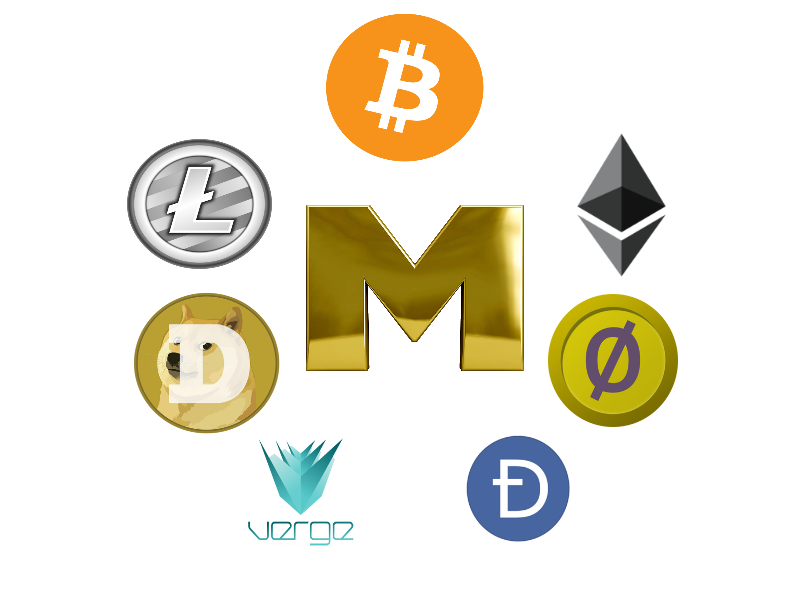
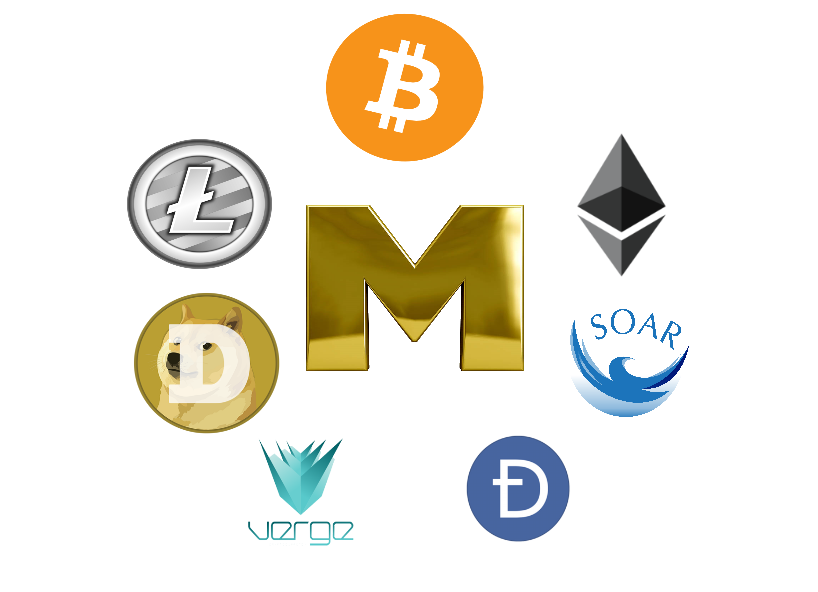
Implemented the coin thread and make the webpage look cool

diff --git a/src/main/resources/static/app/views/homeview.html b/src/main/resources/static/app/views/homeview.html
@@ -23,5 +23,5 @@
 	<label>{{message}}</label>
 	<br><br>
 	<center><img src="app/views/Untitled.png" alt="Multicoin" style="width:850px;height:600px;"></center>
-	<p>MULTICOIN = Bitcoin + Litecoin + Ethereum + Dogecoin + Omni + Verge + Dash</p>
+	<p>MULTICOIN = Bitcoin + Litecoin + Ethereum + Dogecoin + Soar + Verge + Dash</p>
 </div>

diff --git a/src/main/resources/static/app/views/coin.html b/src/main/resources/static/app/views/coin.html
@@ -26,6 +26,10 @@
     button {
         color: darkslategray;
     }
+
+    input, select, textarea{
+        color: #000000;
+    }
 </style>
 <div ng-controller="CoinController">
 

diff --git a/src/main/java/com/webserver/models/User.java b/src/main/java/com/webserver/models/User.java
@@ -10,14 +10,27 @@ import javax.persistence.Table;
 
 @Entity
 @Table(name = "user")
-public class User implements java.io.Serializable {
+public class User {
 
-	private static final long serialVersionUID = 1L;
+	@Id
+	@GeneratedValue(strategy = IDENTITY)
+	@Column(name = "id", unique = true, nullable = false)
 	private Integer id;
+
+	@Column(name = "username", nullable = false)
 	private String username;
+
+	@Column(name = "email", nullable = false, length = 200)
 	private String email;
+
+	@Column(name = "dollars", nullable = false)
+
 	private Double dollars;
+
+	@Column(name = "password", nullable = false)
 	private String password;
+
+	@Column(name = "multicoin_address", nullable = false)
 	private String multicoinAddress;
 
 	public User() {
@@ -32,9 +45,6 @@ public class User implements java.io.Serializable {
 		this.multicoinAddress = multicoinAddress;
 	}
 
-	@Id
-	@GeneratedValue(strategy = IDENTITY)
-	@Column(name = "id", unique = true, nullable = false)
 	public Integer getId() {
 		return this.id;
 	}
@@ -43,7 +53,6 @@ public class User implements java.io.Serializable {
 		this.id = id;
 	}
 
-	@Column(name = "email", nullable = false, length = 200)
 	public String getEmail() {
 		return this.email;
 	}
@@ -52,7 +61,6 @@ public class User implements java.io.Serializable {
 		this.email = email;
 	}
 
-	@Column(name = "dollars", nullable = false)
 	public Double getDollars() {
 		return dollars;
 	}
@@ -61,7 +69,6 @@ public class User implements java.io.Serializable {
 		this.dollars = dollars;
 	}
 
-	@Column(name = "username", nullable = false)
 	public String getUsername() {
 		return username;
 	}
@@ -70,7 +77,6 @@ public class User implements java.io.Serializable {
 		this.username = username;
 	}
 
-	@Column(name = "password", nullable = false)
 	public String getPassword() {
 		return password;
 	}
@@ -79,7 +85,6 @@ public class User implements java.io.Serializable {
 		this.password = password;
 	}
 
-	@Column(name = "multicoin_address", nullable = false)
 	public String getMulticoinAddress() {
 		return multicoinAddress;
 	}

diff --git a/src/main/java/com/webserver/models/Price.java b/src/main/java/com/webserver/models/Price.java
@@ -12,9 +12,18 @@ import static javax.persistence.GenerationType.IDENTITY;
 @Table(name = "price")
 public class Price {
 
+    @Id
+    @GeneratedValue
+    @Column(name = "id")
     private Integer id;
+
+    @Column(name = "date")
     private Date date;
+
+    @Column(name = "buyPrice")
     private Double buyPrice;
+
+    @Column(name = "sellPrice")
     private Double sellPrice;
 
     public Price() {
@@ -27,9 +36,6 @@ public class Price {
         this.sellPrice = sellPrice;
     }
 
-    @Id
-    @GeneratedValue
-    @Column(name = "id")
     public Integer getId() {
         return id;
     }
@@ -38,7 +44,6 @@ public class Price {
         this.id = id;
     }
 
-    @Column(name = "date")
     public Date getDate() {
         return date;
     }
@@ -47,7 +52,6 @@ public class Price {
         this.date = date;
     }
 
-    @Column(name = "buyPrice")
     public Double getBuyPrice() {
         return buyPrice;
     }
@@ -56,7 +60,6 @@ public class Price {
         this.buyPrice = buyPrice;
     }
 
-    @Column(name = "sellPrice")
     public Double getSellPrice() {
         return sellPrice;
     }

diff --git a/src/main/java/com/webserver/services/PriceService.java b/src/main/java/com/webserver/services/PriceService.java
@@ -12,6 +12,8 @@ import org.springframework.stereotype.Component;
 import org.springframework.stereotype.Service;
 
 import java.io.IOException;
+import java.math.BigDecimal;
+import java.math.RoundingMode;
 import java.util.Date;
 
 /**
@@ -45,6 +47,7 @@ public class PriceService {
                 prices = exchangeManager.getPrice();
             } catch (IOException | JSONException e) {
                 e.printStackTrace();
+                return;
             }
             Price price = new Price();
             price.setBuyPrice(prices.getKey());

diff --git a/src/main/java/com/webserver/transactions/MultichainManager.java b/src/main/java/com/webserver/transactions/MultichainManager.java
@@ -16,7 +16,7 @@ import java.io.InputStreamReader;
 public class MultichainManager {
 
     private static final String CHAIN_NAME = "chain3";
-    private static final String PATH = "C:\\Users\\Marin\\Facultate\\Multicoin\\src\\main\\resources\\multichain-cli.exe";
+    private static final String PATH = "src/main/resources/multichain-cli.exe";
     private static final String MULTICHAIN_ADDRESS = "18U8sWWCaxYV7zPuX3u8KJhwspctjFhALq6BF6";
 
     public String createNewAddress() throws IOException {

diff --git a/src/main/java/com/webserver/repositories/PriceRepository.java b/src/main/java/com/webserver/repositories/PriceRepository.java
@@ -3,10 +3,12 @@ package com.webserver.repositories;
 
 import com.webserver.models.Price;
 import org.springframework.data.jpa.repository.JpaRepository;
+import org.springframework.stereotype.Repository;
 
 /**
  * Created by Marin on 1/12/2017.
  */
+@Repository
 public interface PriceRepository extends JpaRepository<Price, Integer> {
 
     Price findTopByOrderByDateDesc();

diff --git a/src/main/java/com/webserver/repositories/UserRepository.java b/src/main/java/com/webserver/repositories/UserRepository.java
@@ -7,7 +7,6 @@ import org.springframework.stereotype.Repository;
 import javax.transaction.Transactional;
 
 @Repository
-@Transactional
 public interface UserRepository extends JpaRepository<User, Integer> {
 
     User findById(int id);
